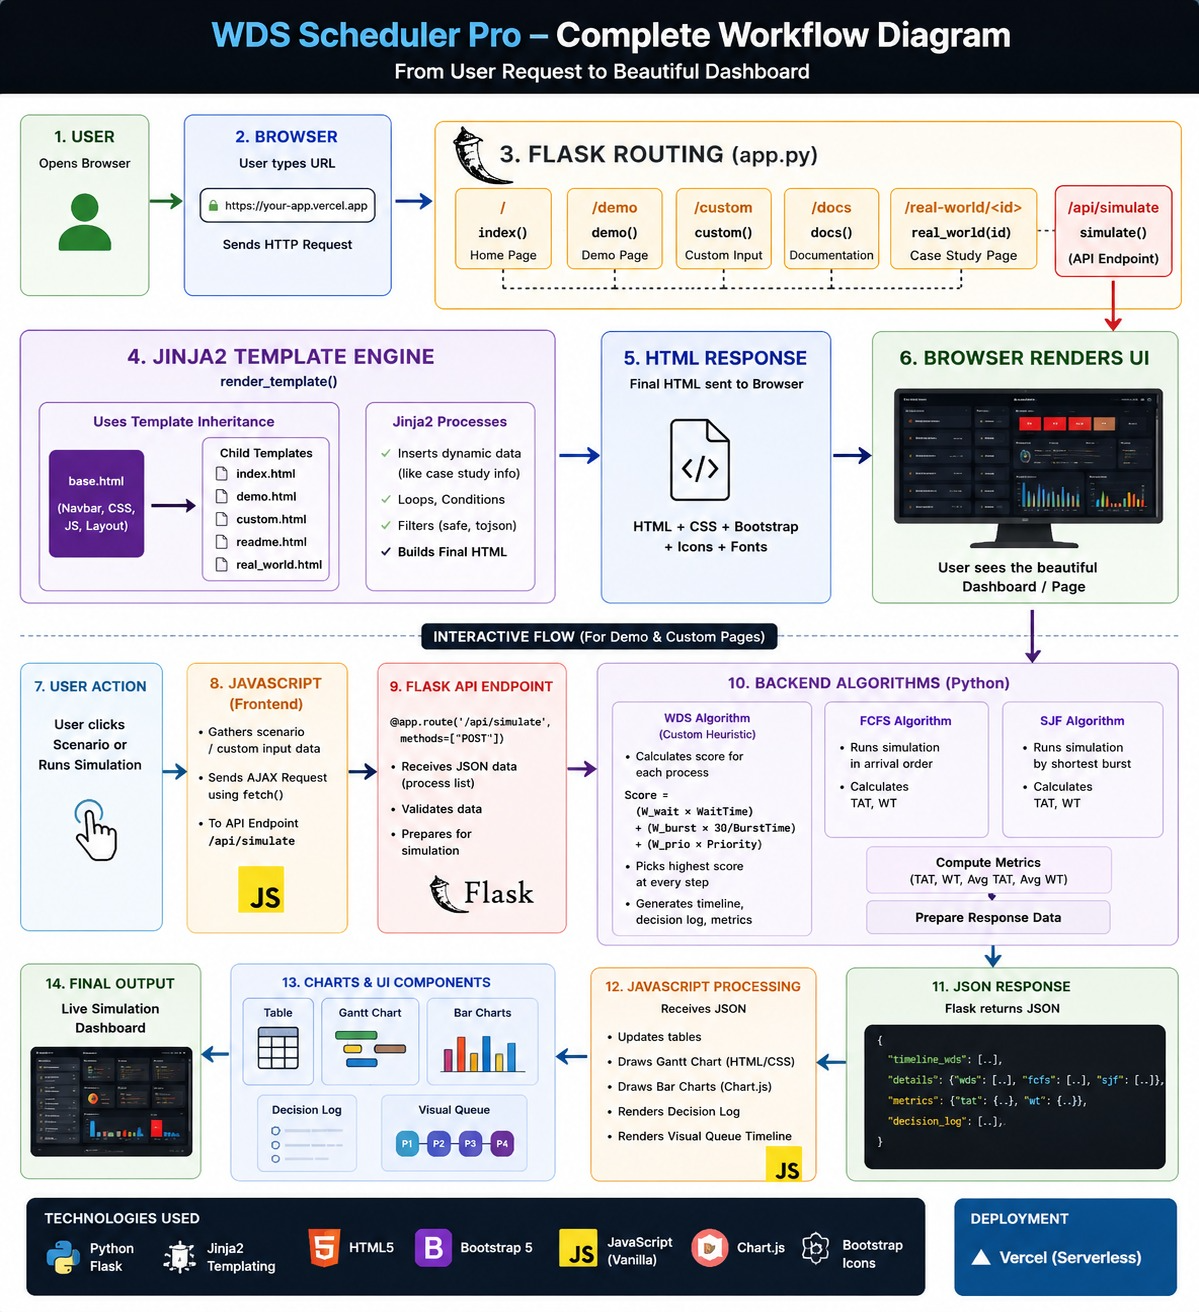
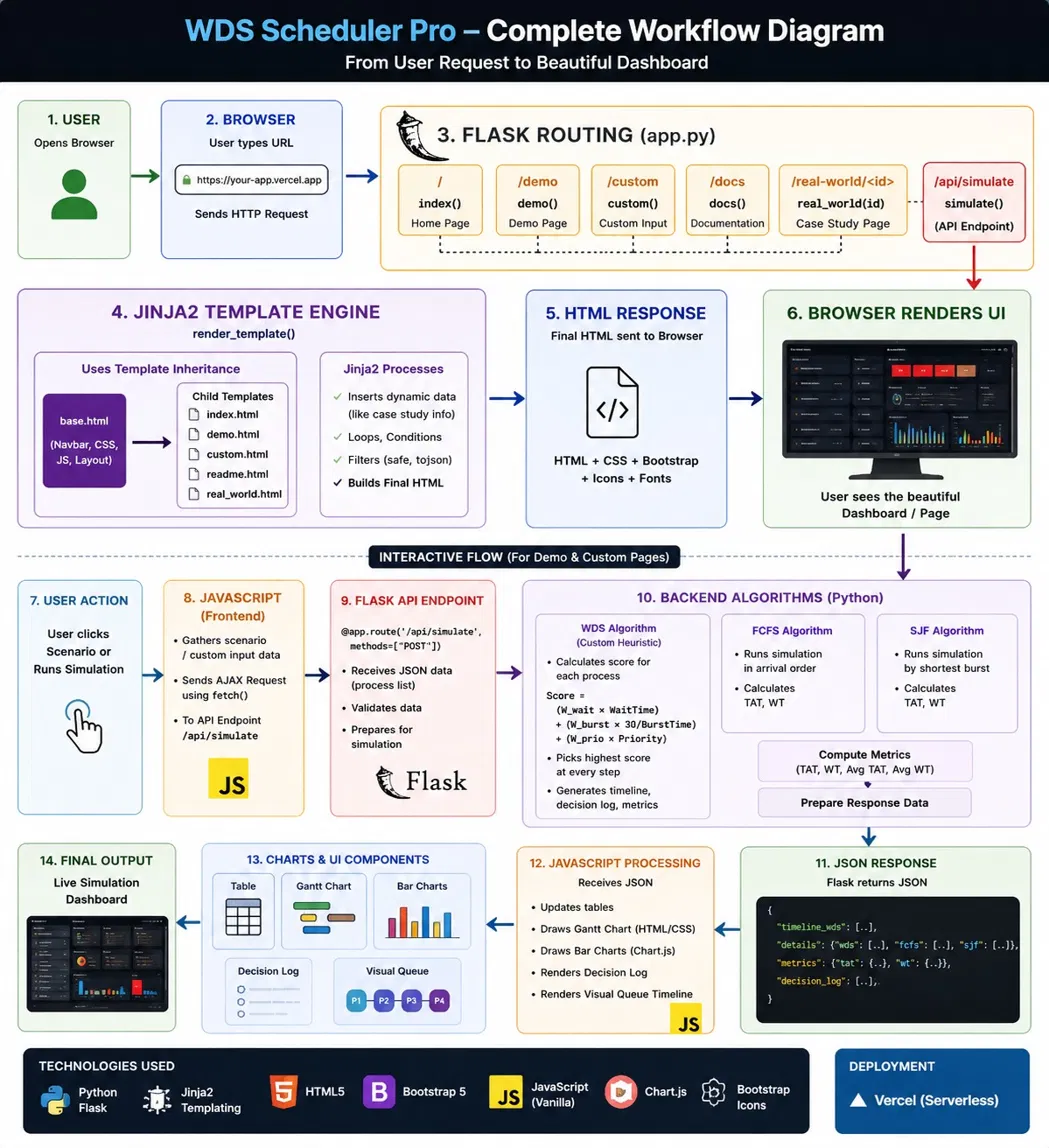
Add complete workflow architecture diagram to README

diff --git a/README.md b/README.md
@@ -1,3 +1,4 @@
+```markdown
 # ⚡ WDS Scheduling Engine (Weighted Dynamic Scoring)
 
 > **A Next-Generation Non-Preemptive CPU Scheduler.**
@@ -35,6 +36,14 @@ This project simulates WDS performance in four specific industries:
 | **📡 5G Edge** | 4K video streams block health alert packets. | **Packet Yielding:** Emergency packets get priority override. |
 | **🚗 Autonomous OS** | Map downloads block Lidar obstacle detection. | **Context Switch:** Lidar gets instant CPU access. |
 | **☁ Cloud Functions** | Cold starts delay user login requests. | **Aging Factor:** Login requests gain score while waiting. |
+
+---
+
+## 📊 Complete Workflow Architecture
+
+![WDS Scheduler Pro - Complete Workflow Diagram](static/images/wds-workflow.png)
+
+The diagram illustrates the end-to-end flow from user request to live simulation dashboard, encompassing Flask routing, Jinja2 template processing, JavaScript interactivity, and backend algorithm execution with real-time metrics visualization.
 
 ---
 
@@ -85,3 +94,4 @@ This project is open for viewing. **Direct changes are restricted.**
 
 * **Found a bug?** Please [Open a New Issue](https://github.com/YOUR-USERNAME/os-el2025/issues/new) and describe the problem.
 * **Want to fix it?** Please Fork the repo and submit a Pull Request (PR) for review.
+```
